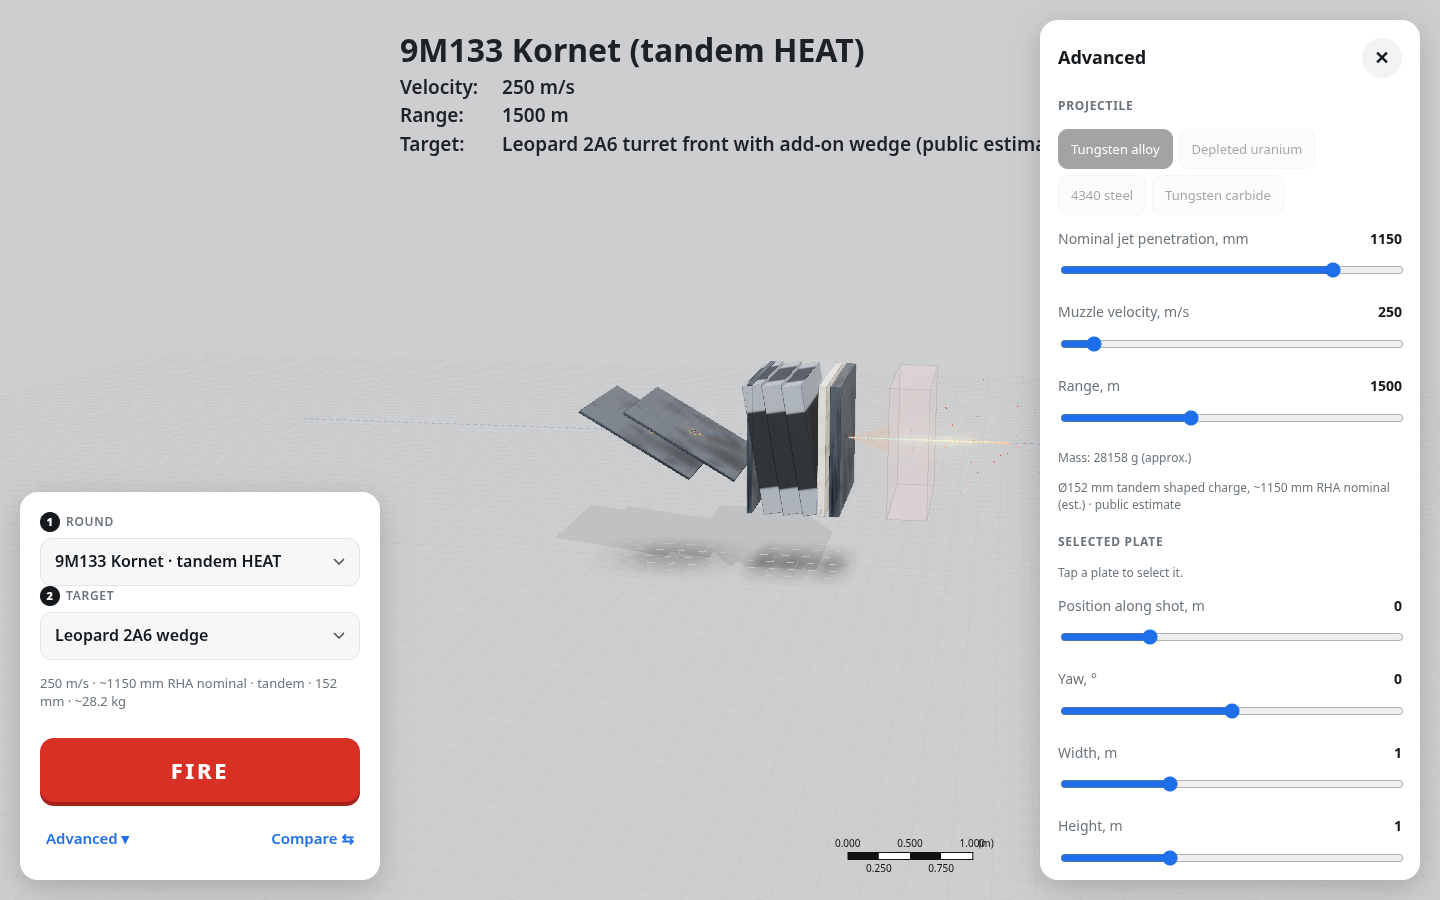
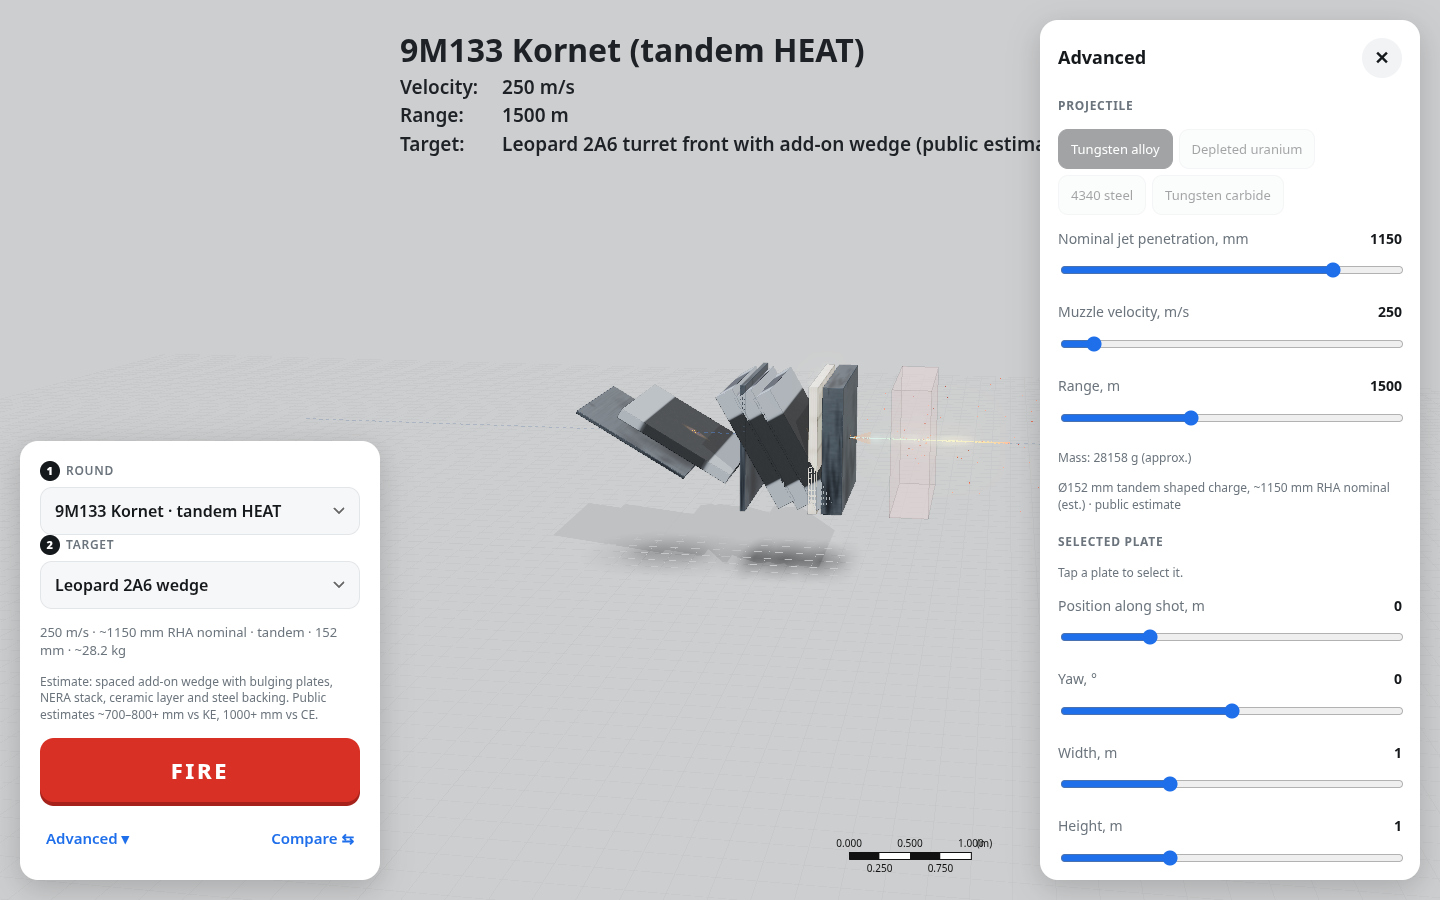
Stage G: re-tune Leopard 2A6 and T-72B+K5 targets, K-5 jet coefficient, new validation checks; sw v12

diff --git a/data.js b/data.js
@@ -60,7 +60,7 @@ export const MATERIALS = {
   tib2: M('Titanium diboride TiB2', 'Ceramic', 4500, 6.5e9, '#6e6a7c', { dwell: { v1: 1250, v2: 2050, tau: 22e-6 } }),
   al2o3: M('Alumina AD995', 'Ceramic', 3900, 4.2e9, '#e8e4da', { dwell: { v1: 900, v2: 1600, tau: 12e-6 } }),
   k1: M('Kontakt-1 (4S20)', 'ERA', 2600, 1.5e9, '#c9a14a', { era: { h: .003, rho: 7850, vf: 700, n: 2 }, desc: 'Light ERA, thin flyers: mainly vs shaped-charge jets.' }),
-  k5: M('Kontakt-5 (4S22)', 'ERA', 3600, 2.0e9, '#b5803a', { era: { h: .015, rho: 7850, vf: 1000, n: 1 }, desc: 'Heavy ERA, 15mm flyer plate, also vs APFSDS.' }),
+  k5: M('Kontakt-5 (4S22)', 'ERA', 3600, 2.0e9, '#b5803a', { era: { h: .015, rho: 7850, vf: 1000, n: 1, jet: .8 }, desc: 'Heavy ERA, 15mm flyer plate, also vs APFSDS (thick, slower flyer: somewhat weaker jet cut than light ERA).' }),
   relikt: M('Relikt (4S23)', 'ERA', 3600, 2.0e9, '#a8743a', { era: { h: .012, rho: 7850, vf: 1100, n: 2 }, desc: 'Two heavy flyers (estimate).' }),
   nera: M('Bulging NERA package', 'NERA', 4200, 3.4e9, '#7f9cb0', { nera: { h: .010, vb: 250, T: 90e-6 }, desc: 'Steel/rubber/steel sandwich; plates bulge into the path.' }),
   liner: M('Spall liner', 'Other', 1400, .5e9, '#e5d36b', { liner: true, desc: 'Aramid liner: narrows the debris cone.' }),
@@ -76,10 +76,12 @@ export const SCENARIOS = {
   strv103: { name: 'Strv 103 40mm @78° + ribs', target: 'Strv 103A/B (40mm RHA @78° +ribs)', proj: '3bm9', range: 1000, plates: [P('rha', 0, 40, 78, 0, 1.2, 1.6, { ribs: 6 })] },
   abrams: { name: 'Abrams hull front special armor (public estimate)', target: 'M1 hull front special armor (public estimate)', proj: '3bm60', range: 1000,
     plates: [P('hha', 0, 50, 70, 0, 1.2, 1.2), P('nera', .25, 120, 45), P('nera', .45, 120, 45), P('nera', .65, 120, 45), P('rha', .9, 40, 30), P('rha', 1.05, 60, 10), P('liner', 1.18, 20, 10), P('crew', 1.6, 300, 0, 0, 1.2, 1.2)] },
-  t72b: { name: 'T-72B turret with Kontakt-5', target: 'T-72B turret cheek + Kontakt-5 (public estimate)', proj: 'm829a1', range: 1500,
-    plates: [P('k5', 0, 60, 55), P('cast', .3, 80, 30), P('textolite', .42, 30, 30), P('nera', .5, 90, 30), P('nera', .6, 90, 30), P('cast', .78, 180, 30), P('crew', 1.4, 300)] },
+  t72b: { name: 'T-72B turret with Kontakt-5', target: 'T-72B (1989) turret front + Kontakt-5 (public estimate)', proj: 'm829a1', range: 1500,
+    desc: 'Estimate (1989 standard): Kontakt-5 over the cast turret with reflecting-plate (NERA-like) cheek inserts. Public estimates ~750–800 mm vs KE with K-5, ~900–1100 mm vs single HEAT, ~650–800 mm vs tandem (model: ~784 KE, ~661 tandem; single HEAT overshoots).',
+    plates: [P('k5', 0, 60, 55), P('cast', .3, 40, 30), P('nera', .4, 80, 43), P('nera', .52, 80, 43), P('nera', .64, 80, 43), P('nera', .76, 80, 43), P('nera', .88, 80, 43), P('cast', 1.05, 60, 30), P('crew', 1.7, 300)] },
   leo2a6: { name: 'Leopard 2A6 wedge', target: 'Leopard 2A6 turret front with add-on wedge (public estimate)', proj: '3bm42', range: 1500,
-    plates: [P('hha', 0, 20, 60), P('hha', .35, 20, 60), P('rha', .9, 40), P('nera', 1.0, 110, 10), P('nera', 1.15, 110, 10), P('nera', 1.3, 110, 10), P('sic', 1.45, 60), P('rha', 1.55, 80), P('crew', 2.1, 300)] },
+    desc: 'Estimate: spaced add-on wedge with bulging plates, NERA stack, ceramic layer and steel backing. Public estimates ~700–800+ mm vs KE, 1000+ mm vs CE.',
+    plates: [P('hha', 0, 25, 60), P('nera', .35, 60, 60), P('rha', .9, 40), P('nera', 1.0, 110, 30), P('nera', 1.15, 110, 30), P('nera', 1.3, 110, 30), P('sic', 1.45, 70), P('rha', 1.6, 160), P('crew', 2.2, 300)] },
   // ---- Stage B: public-estimate turret layouts (layer types, thicknesses and angles are informed guesses, NOT real drawings) ----
   t90m: { name: 'T-90M turret + Relikt (est.)', target: 'T-90M turret front + Relikt (public estimate)', proj: 'm829a3', range: 2000,
     desc: 'Estimate: Relikt heavy ERA over a welded turret with reflecting-plate (NERA-like) inserts and thick steel backing. Public KE estimates ~800–1000 mm with Relikt.',

diff --git a/physics.js b/physics.js
@@ -8,7 +8,7 @@
 //     ERA / NERA disruption windows, tandem precursor. Pure JS; runs in a few ms.
 import { CORES, MATERIALS, PROJECTILES } from './data.js';
 const rad = d => d * Math.PI / 180, deg = r => r * 180 / Math.PI, clamp = (x, a, b) => Math.max(a, Math.min(b, x));
-const RHO_CU = 8900, R_RHA = MATERIALS.rha.R, SEC = 2.0, ERA_TINT = 160e-6, ERA_K = 2.5, TANDEM_RESID = .07, NERA_JET = 6; // NERA jet-disruption coefficient (fitted: bulging plates are mass-efficient vs jets, ~2–3× RHA) // ~5–15% loss of tandem main jets to precursor-initiated ERA debris (public estimates)
+const RHO_CU = 8900, R_RHA = MATERIALS.rha.R, SEC = 2.0, ERA_TINT = 160e-6, ERA_K = 2.5, TANDEM_RESID = .07, NERA_JET = 6, ERA_JET = 3.5; /* light-ERA jet-cut coefficient; heavy ERA may override via era.jet */ // NERA jet-disruption coefficient (fitted: bulging plates are mass-efficient vs jets, ~2–3× RHA) // ~5–15% loss of tandem main jets to precursor-initiated ERA debris (public estimates)
 
 // ---------- geometry ----------
 export function plateAxes(p) { const a = -rad(p.ax), b = rad(p.ay);
@@ -174,7 +174,7 @@ function simCE(pr, shot, segs, v0, rand) {
     if (m.nera) eraWin.push({ si, s, m, nera: true, eta: 2 * 7850 * m.nera.h * m.nera.vb * Math.max(Math.sin(rad(s.obl)), .25) }); });
   const disrupt = (e, ta, P) => { let f = 1; for (const c of cleared) if (P >= c.sIn - 1e-6) f *= 1 - TANDEM_RESID; /* flyer/casing debris left by the precursor */ for (const w of eraWin) { const tArrW = (w.s.sIn - xLiner) / e.v; if (P < w.s.sIn - 1e-6) continue; // element passes through this plate's location
       const firstArr = (w.s.sIn - xLiner) / JET[pr.kind || 'heat'].vt; const delay = tArrW - firstArr; const tAct = w.nera ? 4e-6 : 6e-6; if (delay < tAct) continue; // jet tip passes before plates move
-      if (w.nera && delay > w.m.nera.T + tAct) continue; const dJet = cal * .06; const cut = clamp(w.eta / (RHO_CU * dJet * e.v) * (w.nera ? NERA_JET : 3.5), 0, .97); f *= 1 - cut; } return f; };
+      if (w.nera && delay > w.m.nera.T + tAct) continue; const dJet = cal * .06; const cut = clamp(w.eta / (RHO_CU * dJet * e.v) * (w.nera ? NERA_JET : (w.m.era.jet ?? ERA_JET)), 0, .97); f *= 1 - cut; } return f; };
   const sim = dpsm(pr, segs.map(s => ({ ...s })), xLiner, scale, disrupt);
   for (const w of eraWin) { segEvents[w.si].notes.push(w.nera ? 'NERA bulge disrupted jet' : 'ERA flyers cut the jet'); (w.nera ? bulges : era).push({ plate: w.s.plate, t0: (w.s.sIn - xLiner) / JET[pr.kind || 'heat'].vt }); }
   // reconstruct timeline: crater bottom position vs time

diff --git a/sw.js b/sw.js
@@ -1,4 +1,4 @@
-const CACHE = "tanksim-v11";
+const CACHE = "tanksim-v12";
 const ASSETS = ["./", "./index.html", "./manifest.json", "./icons/icon-192.png", "./icons/icon-512.png", "./icons/icon-maskable-512.png", "./icons/apple-touch-icon.png",
   "./materials.js", "./vendor/jsm/geometries/RoundedBoxGeometry.js", "./vendor/jsm/postprocessing/EffectComposer.js", "./vendor/jsm/postprocessing/RenderPass.js", "./vendor/jsm/postprocessing/UnrealBloomPass.js", "./vendor/jsm/postprocessing/OutputPass.js", "./vendor/jsm/postprocessing/ShaderPass.js", "./vendor/jsm/postprocessing/MaskPass.js", "./vendor/jsm/postprocessing/Pass.js", "./vendor/jsm/shaders/CopyShader.js", "./vendor/jsm/shaders/LuminosityHighPassShader.js", "./vendor/jsm/shaders/OutputShader.js", "./app.js", "./data.js", "./physics.js", "./projectile.js", "./damage.js", "./compare.js", "./sweep.js", "./vendor/build/three.module.js", "./vendor/jsm/controls/OrbitControls.js", "./vendor/jsm/controls/TransformControls.js", "./vendor/jsm/environments/RoomEnvironment.js"];
 self.addEventListener('install', e => { e.waitUntil(caches.open(CACHE).then(c => c.addAll(ASSETS)).then(() => self.skipWaiting())); });

diff --git a/README.md b/README.md
@@ -103,3 +103,11 @@ Files: `compare.js`, `sweep.js`, `damage.js`, `equiv.mjs` (RHA-equivalent helper
 
 ## Rendering (v11)
 PBR plate materials (procedural mill-scale steel, ceramic tiles, rubber NERA, bolted ERA, DU/Al/Ti tints) with beveled edges; smooth damage (raised heat-tinted entry lip, scorch/temper ring, glowing rim that cools, displaced rear dome, curled petals); rods with metallic finish, separating sabot petals and a glowing tracer; soft studio lighting, contact shadows and bloom on High quality. *Impact zoom* (Advanced → View) briefly closes in and slows down at the first impact.
+
+## Re-tuned legacy targets (v12)
+| Target (public estimate) | KE equiv. | single HEAT | tandem |
+|---|---|---|---|
+| Leopard 2A6 turret front | ~800 mm | ~1780 mm | ~1000 mm |
+| T-72B (1989) + Kontakt-5 | ~784 mm | ~1690 mm* | ~661 mm |
+
+*Higher than the ~900–1100 mm public estimate: in this model K-5 plus NERA inserts over-penalise thin single jets. Kontakt-5 now has a per-material jet-cut coefficient (`era.jet`, 0.8 vs 3.5 for light ERA).
